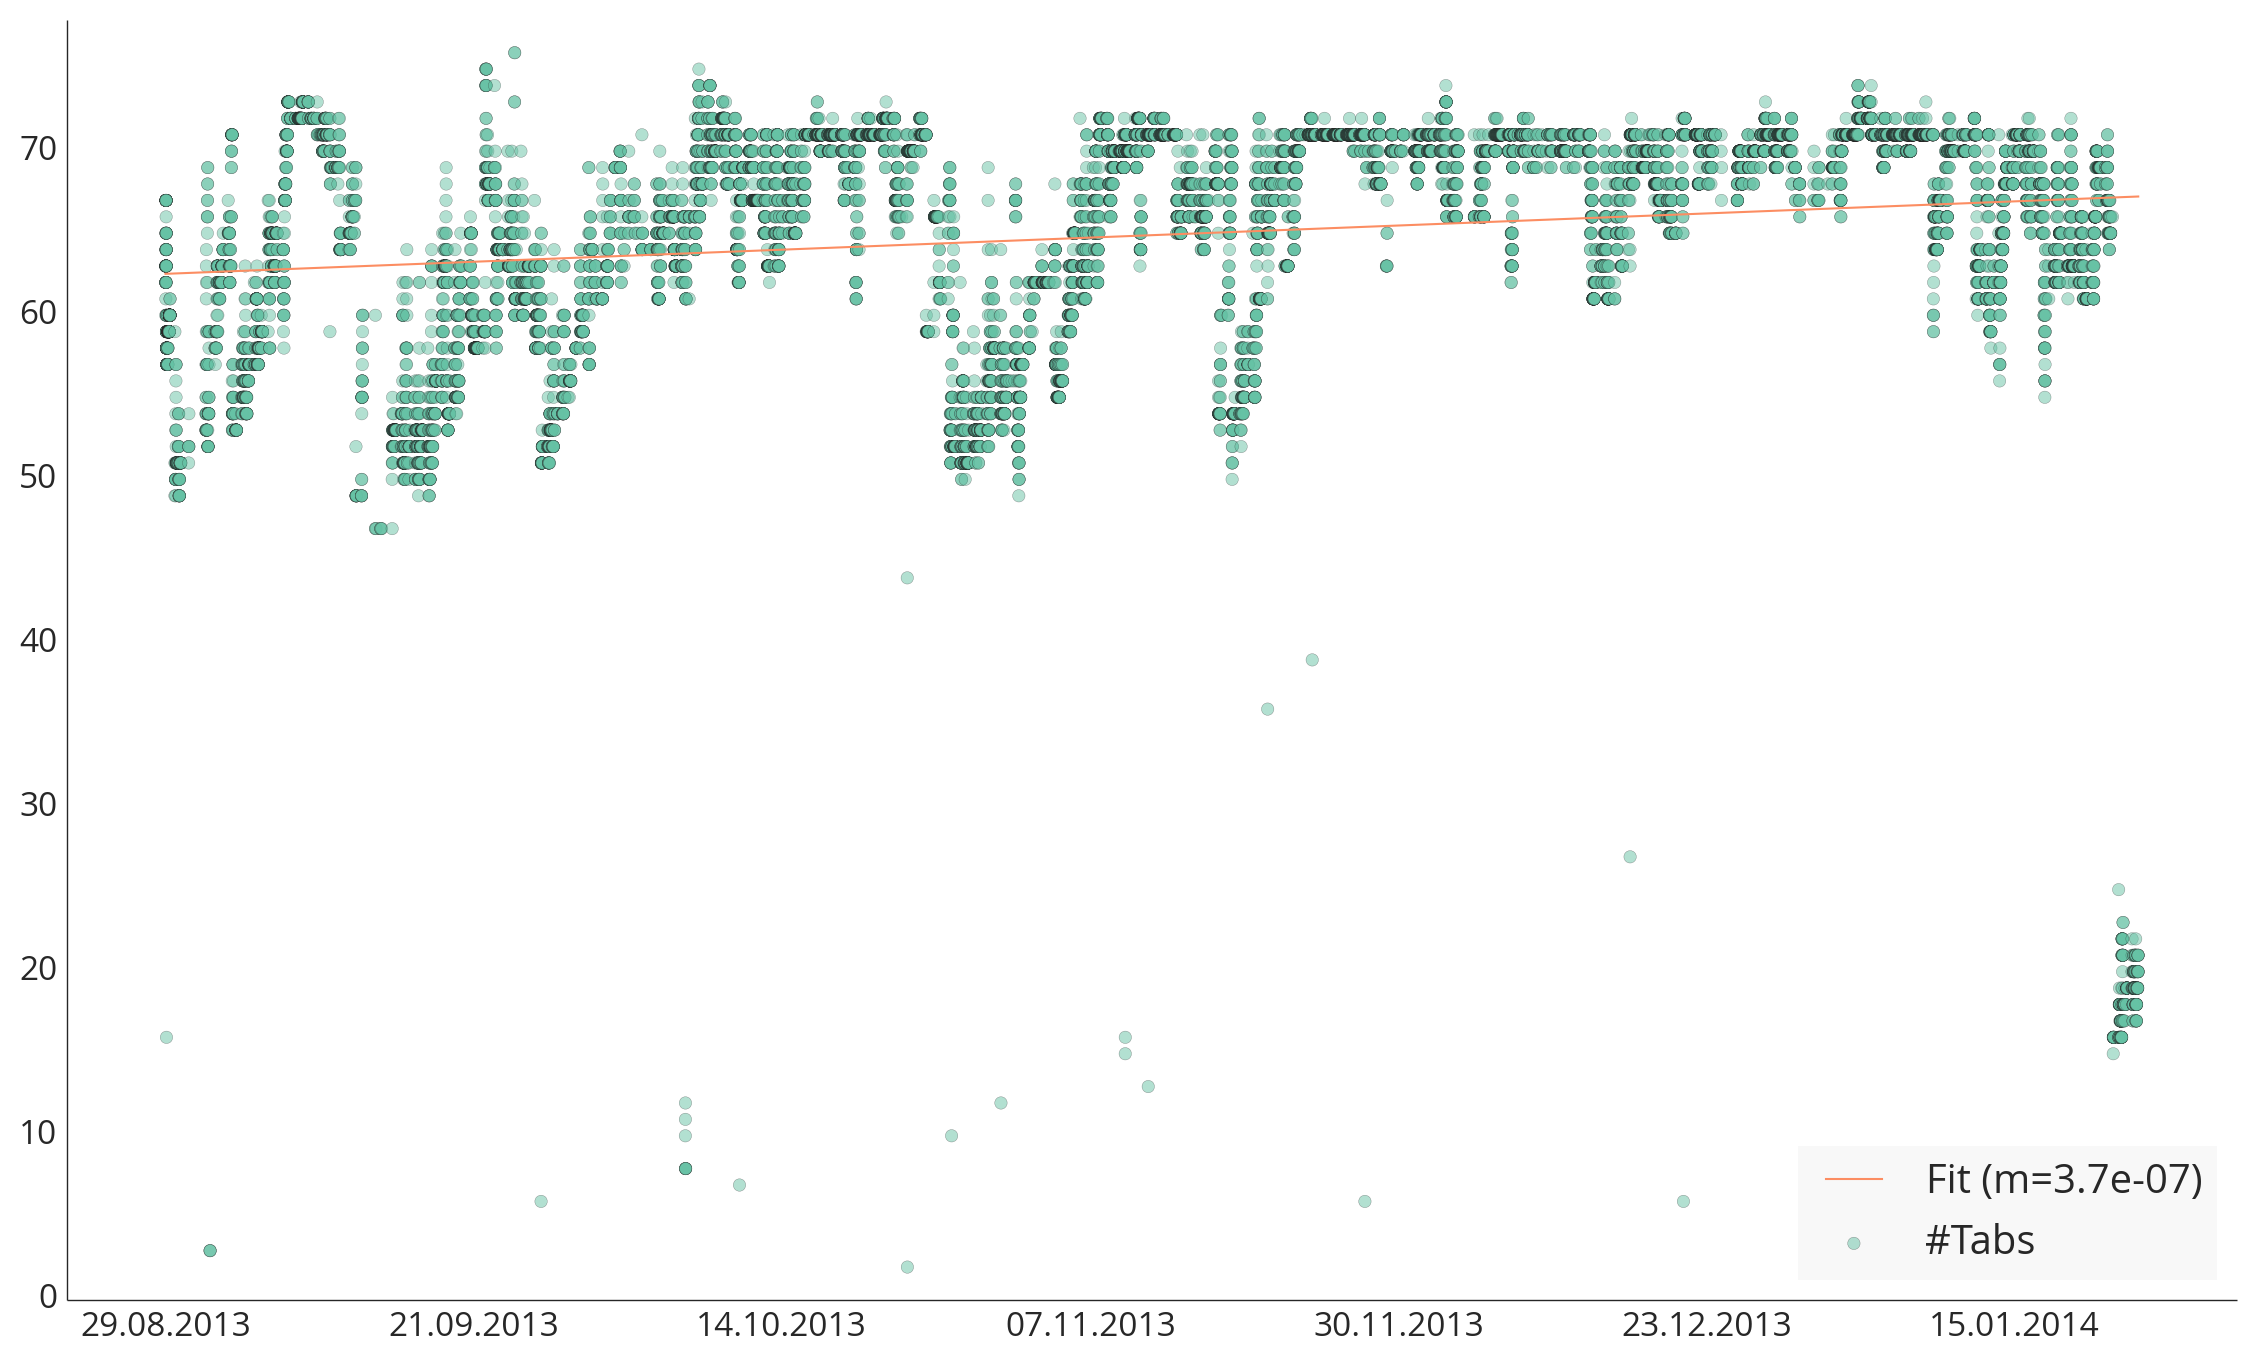
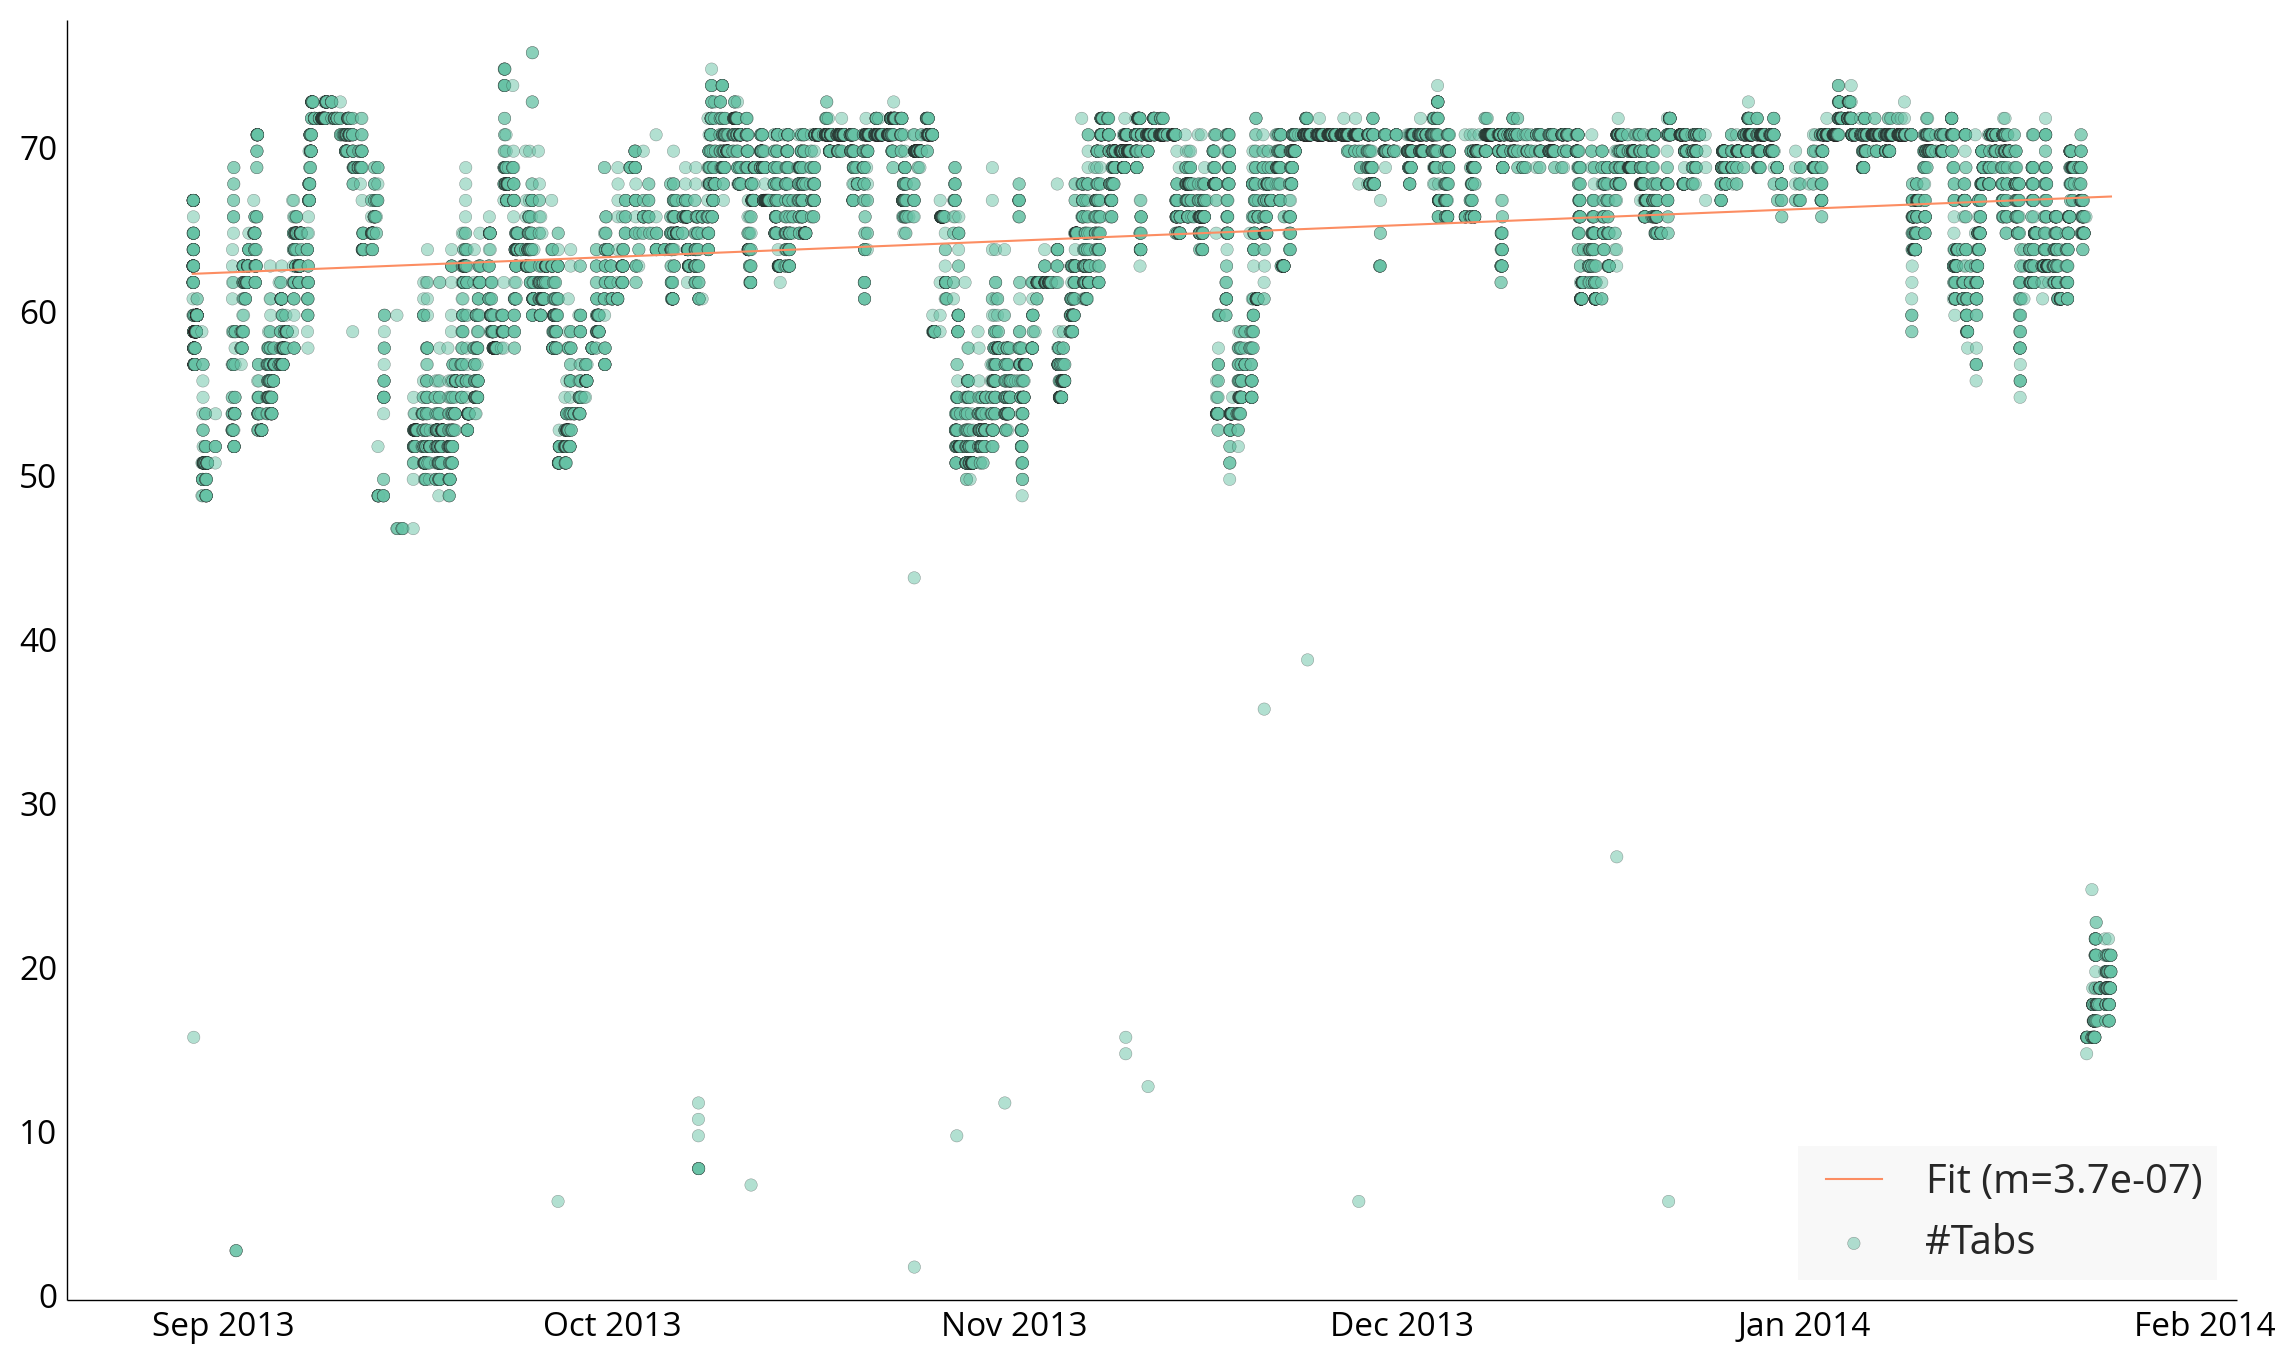
Changed to using proper datetime datatypes in plots. Idiot me.

diff --git a/chromeProcesses/eval/chromeProcesses_visualization.py b/chromeProcesses/eval/chromeProcesses_visualization.py
@@ -7,15 +7,15 @@
 import numpy as np #numerical stuff
 import pylab as pl #for poly line fit
 import sys, datetime #for converting to human readable date
-# import matplotlib.pyplot as plt
-import prettyplotlib as ppl # makes nicer colors and generally better to look at graphs
-from prettyplotlib import plt # This is "import matplotlib.pyplot as plt" from the prettyplotlib library
-from prettyplotlib import mpl # This is "import matplotlib as mpl" from the prettyplotlib library
+import prettyplotlib as ppl
+import matplotlib.pyplot as plt
+import matplotlib as mpl
+from prettyplotlib import brewer2mpl
 
 # small function to convert epoch time to human readable format
-def convertDate(date):
-	# return datetime.datetime.fromtimestamp(date).strftime("%d.%m.%Y %H:00")
-	return datetime.datetime.fromtimestamp(date).strftime("%d.%m.%Y")
+# def convertDate(date):
+# 	# return datetime.datetime.fromtimestamp(date).strftime("%d.%m.%Y %H:00")
+# 	return datetime.datetime.fromtimestamp(date).strftime("%d.%m.%Y")
 
 def saveAllTheFiles(fig, name):
 	fig.savefig(name + '.png', dpi=200, bbox_inches='tight')
@@ -37,35 +37,18 @@ data[:,1] = [int(x) - notActuallyChromeTabs for x in data[:,1]]
 
 print "In average, you have open", np.average(data[:,1]), "Chrome tabs."
 
-
-# create a list with the x ticks, which should be printed
-startDate = data[:,0][0]
-endDate = data[:,0][-1]
-printList = range(int(startDate), int(endDate), 2000000)
-
-# convert epoch times (x ticks) to human readable form
-humanName = []
-for i in printList:
-	humanName.append(convertDate(i))
-	# print convertDate(i)
+dates = [datetime.datetime.fromtimestamp(converted) for converted in data[:,0]]
 
 # fit a pol1 through the values and make a 1d function of it
 fit = pl.polyfit(data[:,0], data[:,1], 1)
 # print fit[0]
 fitfn = pl.poly1d(fit)
 
-# plot stuff
-#   first plot the scatter plot with all the values (for this, use prettyplotlib)
-#   superimpose the linear regression on top
-#   finally, change the number of shown x ticks to the one we specified before and change their labels to dates of human readable form
-
 # fig, ax = plt.subplots(figsize=(14,8)) #shorthand
 fig = plt.figure(figsize=(14,8))
 ax = fig.add_subplot(111)
-ppl.scatter(ax, data[:,0], data[:,1], label="#Tabs") # used prettyplotlib to plot, if not uses, use sx.scatter and remove ax as the first argument
-ppl.plot(ax, data[:,0], fitfn(data[:,0]), label="Fit (m="+str(round(fit[0],8))+")")
-ax.set_xticks(printList)
-ax.set_xticklabels(humanName);
+ppl.scatter(ax, dates, data[:,1], label="#Tabs") # used prettyplotlib to plot, if not uses, use sx.scatter and remove ax as the first argument
+ppl.plot(ax, dates, fitfn(data[:,0]), label="Fit (m="+str(round(fit[0],8))+")")
 ax.axis('tight')
 ppl.legend(ax, loc=4)
 ax.set_ylim(0, 78)
@@ -75,13 +58,10 @@ saveAllTheFiles(fig, "processesVsTime")
 
 ### CUT
 xMaxCut = 1390417683
-cutData = np.asarray([[x,y] for x,y in zip(data[:,0], data[:,1]) if x < xMaxCut])
+cutData = np.asarray([[x,y] for x,y in zip(dates, data[:,1]) if x < datetime.datetime.fromtimestamp(xMaxCut)])
 cutFig = plt.figure(figsize=(14,8))
 cutAx = cutFig.add_subplot(111)
 ppl.scatter(cutAx, cutData[:,0], cutData[:,1], label="#Tabs")
-ppl.plot(cutAx, cutData[:,0], fitfn(cutData[:,0]), label="Fit (m="+str(round(fit[0],8))+")")
-cutAx.set_xticks(printList)
-cutAx.set_xticklabels(humanName)
 cutAx.axis('tight')
 ppl.legend(cutAx, loc=4)
 cutAx.set_ylim(40, 78)
@@ -92,16 +72,13 @@ saveAllTheFiles(cutFig, "processesVsTime--cut")
 ### ZOOM
 xMin = 1.3851*10**9
 xMax = 1.38515*10**9
-zoomData = np.asarray([[x,y] for x,y in zip(data[:,0], data[:,1]) if x > xMin and x < xMax])
+zoomData = np.asarray([[x,y] for x,y in zip(dates, data[:,1]) if x > datetime.datetime.fromtimestamp(xMin) and x < datetime.datetime.fromtimestamp(xMax)])
 
-zoomPrintlist = range(int(xMin), int(xMax), 8000)
-zoomHumanName = [datetime.datetime.fromtimestamp(x).strftime("%d.%m.%Y %H:%M") for x in zoomPrintlist]
 zoomFig = plt.figure(figsize=(14,8))
 zoomAx = zoomFig.add_subplot(111)
 ppl.scatter(zoomAx, zoomData[:,0], zoomData[:,1], label="#Tabs")
-zoomAx.set_xticks(zoomPrintlist)
-zoomAx.set_xticklabels(zoomHumanName)
 zoomAx.axis('tight')
+zoomAx.set_xlim(zoomData[:,0][0], zoomData[:,0][-1])
 ppl.legend(zoomAx, loc=4)
 
 saveAllTheFiles(zoomFig, "processesVsTime--zoom")

diff --git a/Fitbit/eval/fitbit_visualization.py b/Fitbit/eval/fitbit_visualization.py
@@ -45,14 +45,16 @@ data = np.asarray(allImportantData)
 
 color_cycle = cycle(mpl.rcParams['axes.color_cycle'])
 
-x = data[:,0]
+x = [datetime.datetime.fromtimestamp(converted) for converted in data[:,0]]
 fig = plt.figure(figsize=(14,8))
 ax = fig.add_subplot(111)
-# fig, ax = plt.subplots()
+
 # ax.axis('tight')
+# 
 currentColor = next(color_cycle)
 _tempColor = colorsys.rgb_to_hsv(currentColor[0], currentColor[1], currentColor[2])
 currentMarkerColor = colorsys.hsv_to_rgb(_tempColor[0], _tempColor[1], _tempColor[2]/2)
+
 ppl.plot(ax, x, data[:,1], label="#Stepss", color=currentColor) 
 # ax.plot(x, data[:,1], label="#Stepss", color="b") 
 ax.set_xlabel("Date")
@@ -60,12 +62,12 @@ ax.set_ylabel("Steps", color=currentMarkerColor)
 for tick in ax.get_yticklabels():
 	tick.set_color(currentMarkerColor)
 # ppl.bar(ax, x, data[:,1], grid='y')
-startDate = x[0]
-endDate = x[-1]
-printList = range(int(startDate), int(endDate), 2000000)
-ax.set_xticks(printList)
-ax.set_xticklabels([datetime.datetime.fromtimestamp(date).strftime("%d.%m.%Y") for date in printList])
-fig.autofmt_xdate()
+# startDate = x[0]
+# endDate = x[-1]
+# printList = range(int(startDate), int(endDate), 2000000)
+# ax.set_xticks(printList)
+# ax.set_xticklabels([datetime.datetime.fromtimestamp(date).strftime("%d.%m.%Y") for date in printList])
+fig.autofmt_xdate() # tilt labels
  
 currentColor = next(color_cycle)
 _tempColor = colorsys.rgb_to_hsv(currentColor[0], currentColor[1], currentColor[2])
@@ -80,8 +82,6 @@ for tick in ax2.get_yticklabels():
 saveAllTheFiles(fig, "fitbit")
 
 ### Statistics PER WEEKDAY
-# 
-# 
 weekdaySteps = {}
 weekdayFloors = {}
 for entry in data:
@@ -123,7 +123,6 @@ saveAllTheFiles(fig2, "fitbit-per_weekday--boxplot_and_mean")
 
 
 #### Statistics per WEEK
-#
 weekSteps = {}
 for entry in data:
 	date = datetime.datetime.fromtimestamp(entry[0])
